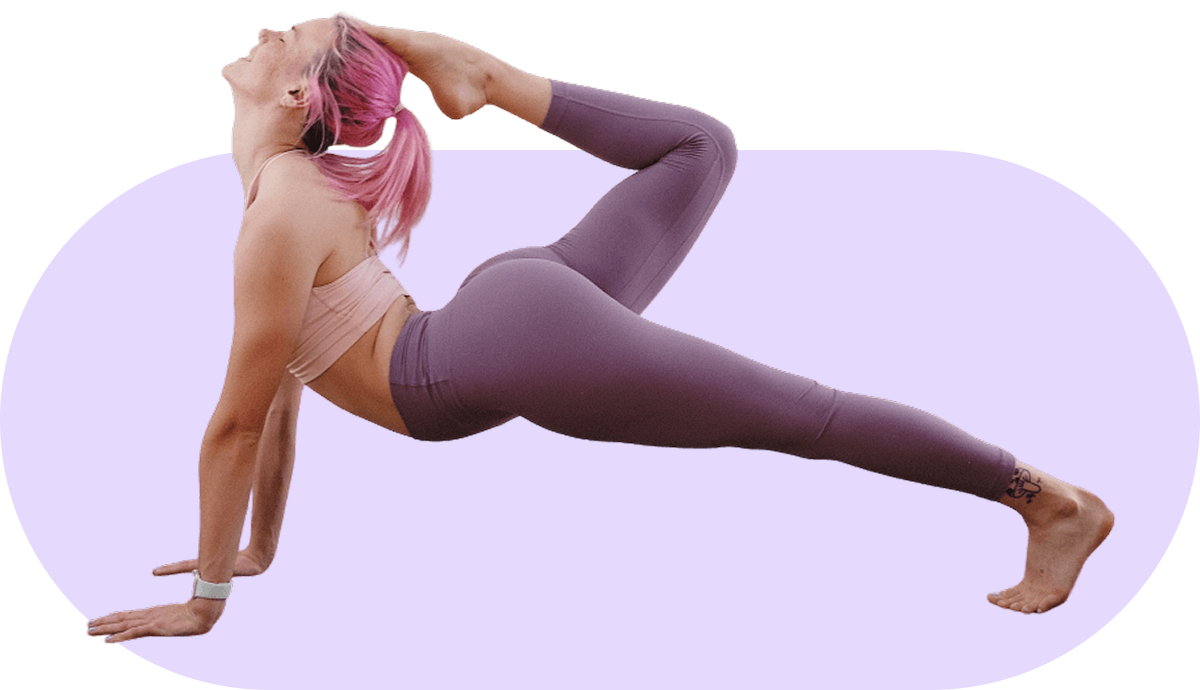
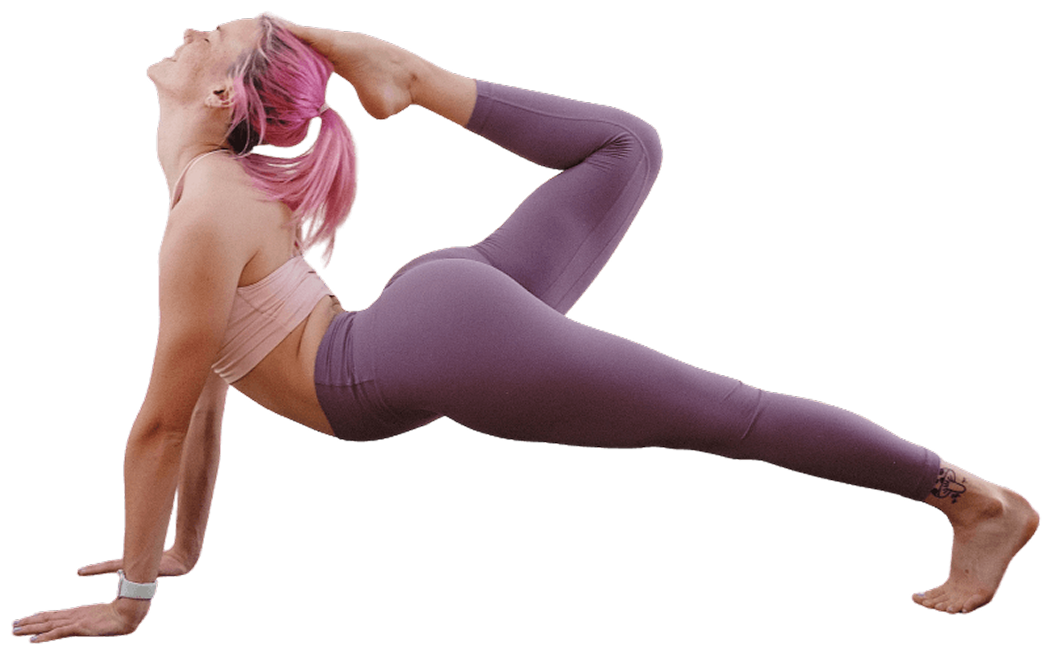
Add decoration to hero section

diff --git a/index.html b/index.html
@@ -17,24 +17,32 @@
         <a class="logo align-items-center" href="#">
             <img src="./assets/logos/logo.png" alt="logo">
         </a>
-        <nav class="nav-global">
-            <ul>
-                <li><a href="#">Home</a></li>
-                <li><a href="#">Services1</a></li>
-                <li><a href="#">Services2</a></li>
-                <li><a href="#">Contact</a></li>
-            </ul>
-        </nav>
-        <a class="theme-toggle align-items-center" href="#">
-            <img src="./assets/icons/moon-icon.png" alt="dark mode toggle">
-        </a>
+        <div class="nav-global-wrapper">
+            <nav class="nav-global">
+                <ul>
+                    <li><a href="#">Home</a></li>
+                    <li><a href="#">Services1</a></li>
+                    <li><a href="#">Services2</a></li>
+                    <li><a href="#">Contact</a></li>
+                </ul>
+            </nav>
+            <a class="theme-toggle align-items-center" href="#">
+                <img src="./assets/icons/moon-icon.png" alt="dark mode toggle">
+            </a>
+        </div>
     </header>
     <main>
         <!-- Jade - start -->
         <section id="section-hero">
             <div class="hero-desc-wrapper">
-                <h1>Choose Your<br>Best Yoga<br>Teacher</h1>
-                <p class="poppins">Calm your mind and body with the best yoga teachers available, relax your day and stay positive.</p>
+                <div class="hero-desc-items">
+                    <h1>Choose Your<br>Best <span class="hero-emphasis">Yoga</span><br>Teacher</h1>
+                    <img class="hero-icon-home-star" src="./assets/icons/home-star.png" alt="home star">
+                </div>
+                <div class="hero-desc-items">
+                    <img class="hero-icon-round-group" src="./assets/icons/round-group.png" alt="round group">
+                    <p class="hero-desc-text poppins">Calm your mind and body with the best yoga teachers available, relax your day and stay positive.</p>
+                </div>
                 <input class="btn poppins" type="button" value="Get Started Free &rarr;">
                 <div class="hero-desc-stats">
                     <div>
@@ -43,7 +51,7 @@
                     </div>
                     <div>
                         <div class="hero-stats-num">40+</div>
-                        <p class="hero-stats-desc">Participants</p>
+                        <p class="hero-stats-desc poppins">Participants</p>
                     </div>
                 </div>
             </div>
@@ -55,6 +63,7 @@
             <div class="influencers-main-wrapper">
                 <h2 class="h2-content">#01</h2>
                 <div class="influencers-img-wrapper">
+                    <div class="influencers-img-bg"></div>
                     <img src="./assets/images/yoga-item1.png" alt="find influencers">
                 </div>
             </div>

diff --git a/main.css b/main.css
@@ -124,6 +124,13 @@ header a{
 }
 
 /* global navigation */
+.nav-global-wrapper{
+    display: flex;
+    align-items: center;
+    justify-content: center;
+    gap: 2.5rem;
+}
+
 .nav-global{
     display: none;
 }
@@ -199,13 +206,46 @@ header a{
 .hero-desc-wrapper h1{
     font-size: 2rem;
     font-weight: 500;
+    position: relative;
+    z-index: 10;
 }
 
-.hero-desc-wrapper > p{
+.hero-desc-text{
     font-size: 0.875rem;
     font-weight: 300;
     padding: 1rem 0;
 }
+
+/*  */
+.hero-desc-items{
+    position: relative;
+}
+
+.hero-desc-items img{
+    position: absolute;
+}
+
+.hero-emphasis{
+    transform: rotate(10deg);
+    display: inline-block;
+    background: var(--btn-gradient);
+    color: #fff;
+    padding: 0.2rem 0.5rem;
+    border-radius: 11px;
+}
+
+.hero-icon-home-star{
+    width: 15%;
+    top: 67%;
+    right: 75%;
+}
+
+.hero-icon-round-group{
+    width: 4%;
+    top: 79%;
+    right: 11%;
+}
+/*  */
 
 .hero-desc-wrapper .hero-desc-stats{
     display: flex;
@@ -258,12 +298,24 @@ header a{
     .hero-img-wrapper{
         flex: 4.5 1 0;
     }
+/*  */
+    .hero-icon-home-star{
+        top: 35%;
+        right: 15%;
+    }
+
+    .hero-icon-round-group{
+        width: 4%;
+        bottom: 80%;
+        right: 103%;
+    }
+/*  */
 
     .hero-desc-wrapper h1{
         font-size: 3rem;
     }
 
-    .hero-desc-wrapper > p{
+    .hero-desc-text{
         font-size: 0.9375rem;
         padding: 1.5rem 0;
     }
@@ -296,7 +348,7 @@ header a{
         font-size: 5rem;
     }
 
-    .hero-desc-wrapper > p{
+    .hero-desc-text{
         font-size: 1rem;
         padding: 2rem 0;
         width: 70%;
@@ -359,10 +411,27 @@ header a{
     font-weight: 300;
 }
 
-.influencers-img-wrapper img{
+.influencers-img-wrapper{
+    position: relative;
+    text-align: center;
+}
+
+.influencers-img-bg{
+    position: absolute;
+    bottom: 0;
+    left: 0;
     width: 100%;
+    background-color: #E5D9FD;
+    height: 80%;
+    border-radius: 200px;
+}
+
+.influencers-img-wrapper img{
+    width: 85%;
     height: auto;
     object-fit: contain;
+    position: relative;
+    z-index: 10;
 }
 
 .p-content,
@@ -389,11 +458,11 @@ header a{
     }
 
     #section-influencers div:nth-child(1){
-        flex: 5.2 1 0;
+        flex: 6 1 0;
     }
 
     #section-influencers div:nth-child(2){
-        flex: 3.3 1 0;
+        flex: 4 1 0;
     }
 
     #section-influencers div:nth-child(3){
